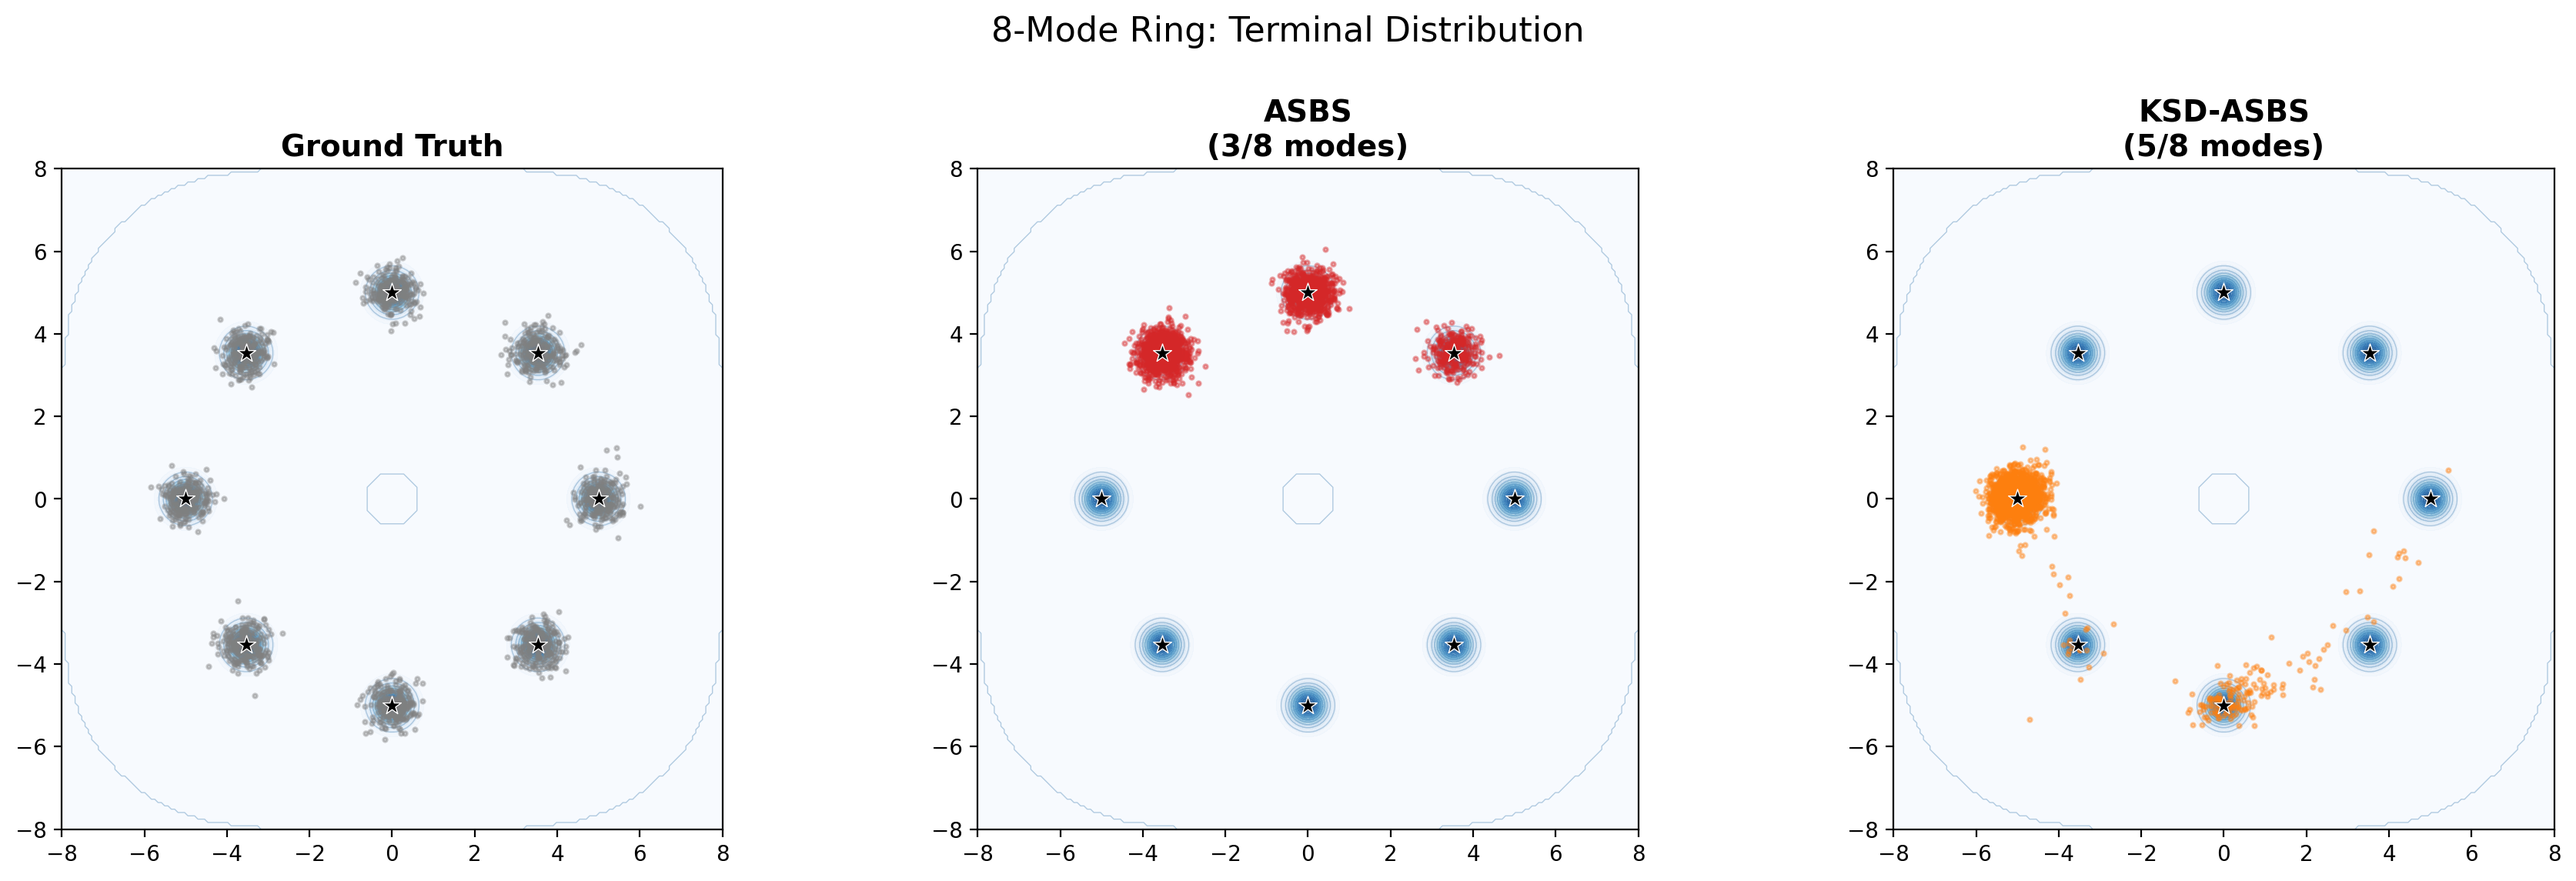
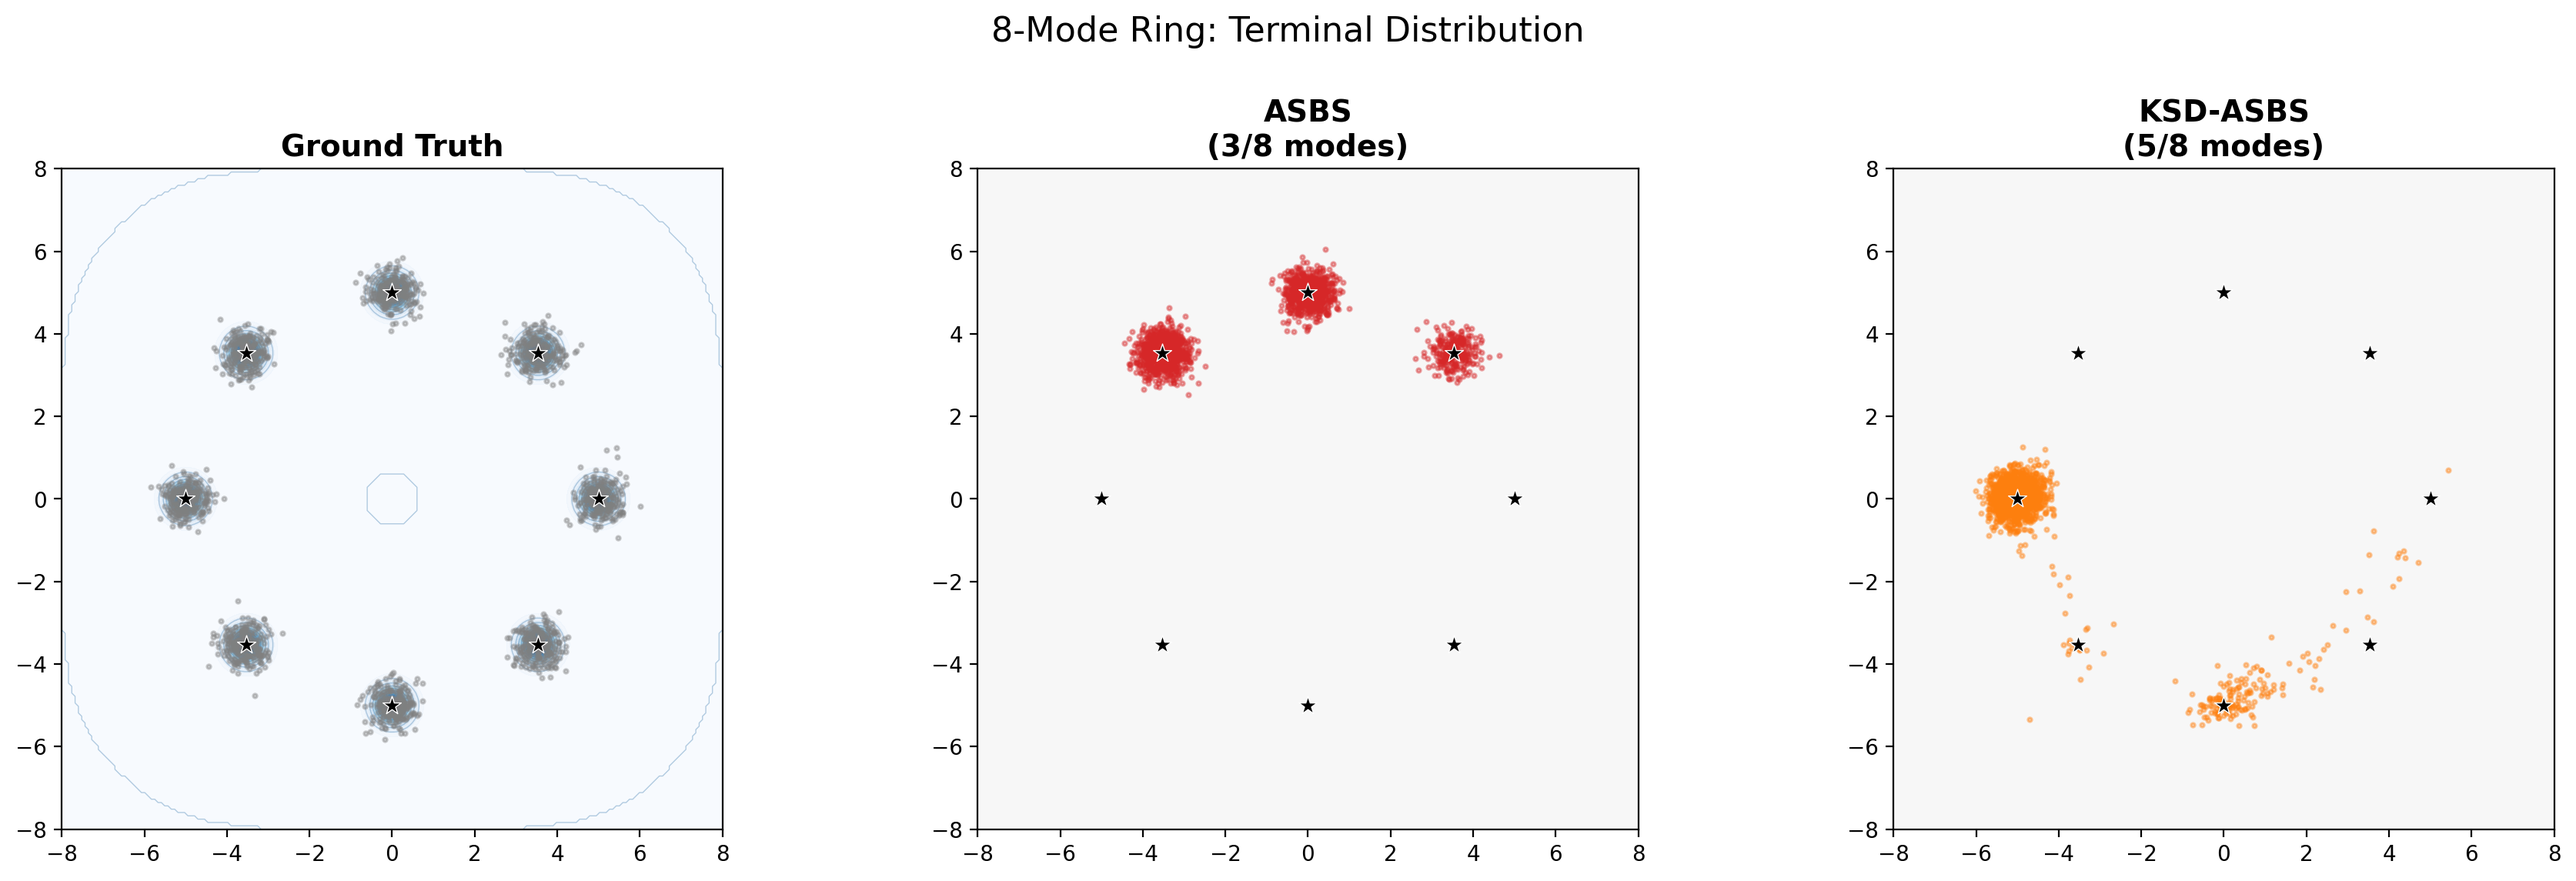
Remove density contours from ASBS/KSD terminal panels
Only Ground Truth panel shows density contours. ASBS and KSD-ASBS
panels show samples on clean background for clarity.

diff --git a/scripts/eval_2d_all.py b/scripts/eval_2d_all.py
@@ -174,8 +174,13 @@ def plot_terminal(
     sample_sets = [samples_ref, samples_base, samples_ksd]
     colors = ['gray', '#d62728', '#ff7f0e']
 
-    for ax, title, samples, color in zip(axes, titles, sample_sets, colors):
-        plot_density_contours(ax, energy, xlim, ylim)
+    for idx, (ax, title, samples, color) in enumerate(zip(axes, titles, sample_sets, colors)):
+        if idx == 0:
+            # Only Ground Truth panel gets density contours
+            plot_density_contours(ax, energy, xlim, ylim)
+        else:
+            ax.set_facecolor('#f7f7f7')
+
         ax.set_title(title, fontsize=14, fontweight='bold')
         ax.set_xlim(xlim)
         ax.set_ylim(ylim)

diff --git a/evaluation/2d_result.md b/evaluation/2d_result.md
@@ -1,6 +1,6 @@
 # 2D Visualization Benchmark Results
 
-Generated: 2026-04-07 06:09:22 KST
+Generated: 2026-04-07 06:12:27 KST
 
 ---
 
